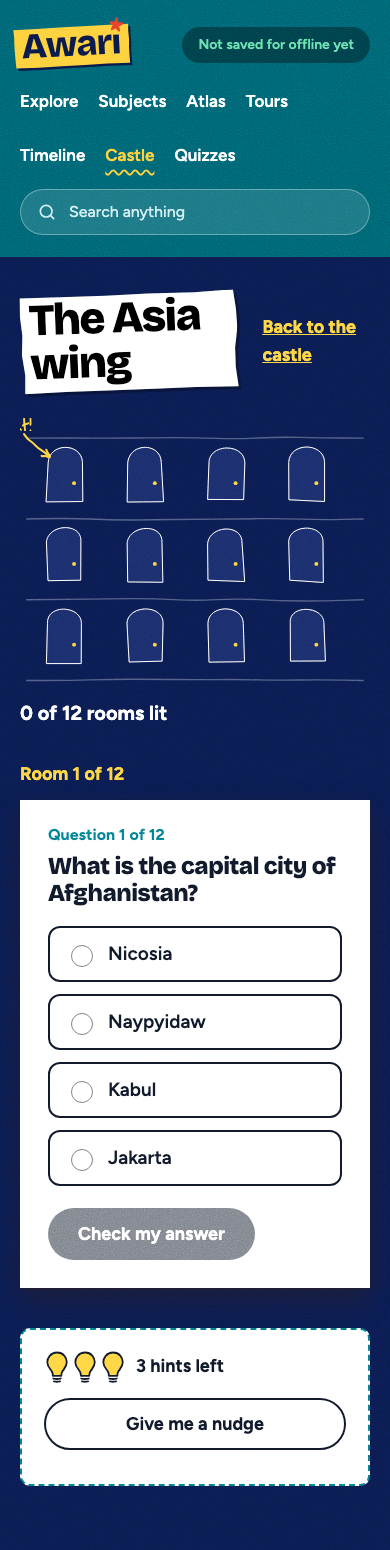
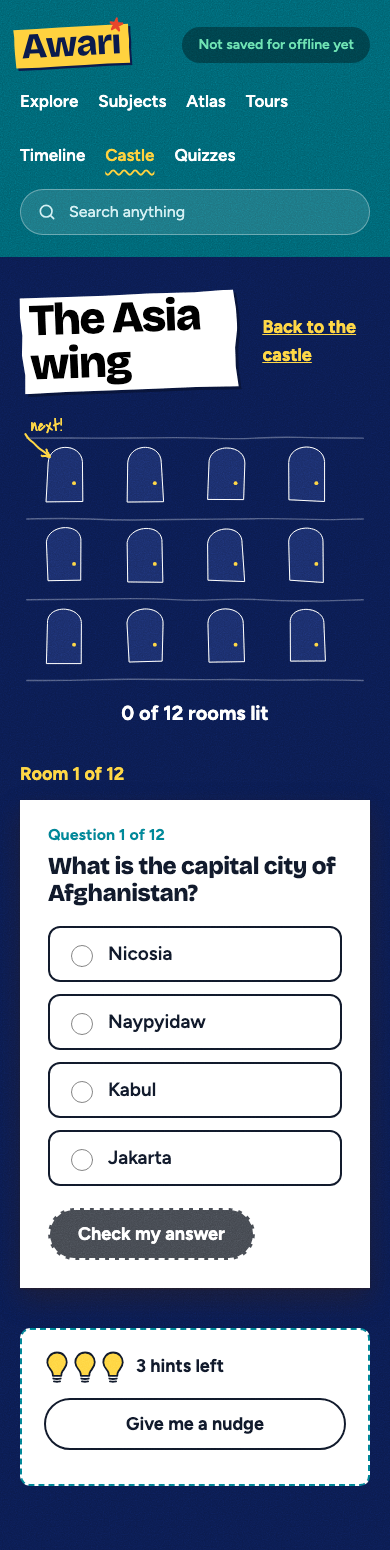
22-review-3 11: castle wing prints, full-width doors, centred wing wall

Changed region(s): [[0.1231, 0.7742, 0.6462, 0.8361], [0.0615, 0.4335, 0.6769, 0.4645], [0.0615, 0.2477, 0.1538, 0.2787]]

diff --git a/src/features/castle/castle.ts b/src/features/castle/castle.ts
@@ -1,4 +1,6 @@
 /** Pure rules for the Castle (06-castle). */
+import { coverFor } from '../../lib/packs/covers.ts';
+import { packUrl } from '../../lib/packs/load.ts';
 import { CONTINENTS, SUBJECTS, continentSlug, type Continent } from '../../lib/packs/subjects.ts';
 import type { PackId, Question, QuizSet } from '../../lib/packs/types.ts';
 import { reduce, type Action, type QuizState } from '../quiz/quizMachine.ts';
@@ -43,7 +45,7 @@ const SUBJECT_BLURBS: Record<string, string> = {
 
 const SUBJECT_WINGS: readonly Wing[] = SUBJECTS.filter((s) => s.id !== 'countries').map((s) => ({
   id: subjectWingId(s.id),
-  name: `The ${s.name} wing`,
+  name: `The ${s.name.replace(/^The /, '')} wing`,
   pack: s.id,
   group: 'subject',
   blurb: SUBJECT_BLURBS[s.id] ?? 'Twelve doors, twelve questions.',
@@ -107,3 +109,22 @@ export function castleReduce(pool: readonly Question[], s: CastleState, a: Actio
   }
   return { quiz, lit };
 }
+
+/** A reviewed picture for a wing's card: the subject's cover, or a famous place on the continent (22-review-3 Req 19). */
+export function wingPrint(wing: Wing): { src: string; alt: string } | undefined {
+  if (wing.group === 'subject') {
+    const cover = coverFor(wing.pack === 'physics' ? 'physics' : wing.pack);
+    return cover ? { src: cover.file, alt: cover.alt } : undefined;
+  }
+  const place = CONTINENT_PRINTS[wing.continent ?? ''];
+  return place ? { src: packUrl(place.file), alt: place.alt } : undefined;
+}
+
+const CONTINENT_PRINTS: Readonly<Record<string, { file: string; alt: string }>> = {
+  Africa: { file: 'img/egypt.jpg', alt: 'The three great pyramids of Giza standing in the desert' },
+  Asia: { file: 'img/india.jpg', alt: 'The white marble Taj Mahal with its dome and four tall towers' },
+  Europe: { file: 'img/france.jpg', alt: 'The Eiffel Tower in Paris' },
+  'North America': { file: 'img/united-states.jpg', alt: 'The Statue of Liberty holding up her torch, seen from the front' },
+  'South America': { file: 'img/brazil.jpg', alt: 'The statue of Christ the Redeemer above the clouds in Rio de Janeiro' },
+  Oceania: { file: 'img/australia.jpg', alt: 'The Sydney Opera House seen across the harbour' },
+};

diff --git a/src/features/castle/CastleScreen.tsx b/src/features/castle/CastleScreen.tsx
@@ -1,10 +1,12 @@
 /** The castle gate: choose a wing, with each wing's doors drawn lit. */
 import { useTitle } from '../../app/useTitle.ts';
-import { Button, MarginNote, StripHeading } from '../../design/paper.tsx';
+import { Button, MarginNote, Print, StripHeading } from '../../design/paper.tsx';
 import { useProgress } from '../../lib/store/useProgress.ts';
-import { ROOMS, WINGS } from './castle.ts';
+import { ROOMS, WINGS, wingPrint } from './castle.ts';
 import { Doors } from './Doors.tsx';
 import './castle.css';
+
+const printOf = wingPrint;
 
 export default function CastleScreen() {
   useTitle('The Castle');
@@ -44,6 +46,16 @@ export default function CastleScreen() {
               const lit = progress.castle[w.id] ?? 0;
               return (
                 <section key={w.id} className="castle__wing" aria-labelledby={`wing-${w.id}`} style={{ rotate: i % 2 ? '1deg' : '-1deg' }}>
+                  {printOf(w) ? (
+                    <Print
+                      className="castle__wing-print"
+                      src={printOf(w)?.src ?? ''}
+                      alt={printOf(w)?.alt ?? ''}
+                      width={200}
+                      tilt={i % 2 ? 2 : -2}
+                      tape={[{ left: '36%', width: 80, tilt: i % 2 ? 5 : -5, tone: 'yellow' }]}
+                    />
+                  ) : null}
                   <h3 id={`wing-${w.id}`}>{w.name}</h3>
                   <p>{w.blurb}</p>
                   <Doors lit={lit} compact />

diff --git a/src/features/castle/wings.test.ts b/src/features/castle/wings.test.ts
@@ -32,3 +32,25 @@ describe('castle wings (17-castle-wings Property 1)', () => {
     expect(WINGS.find((w) => w.id === 'electricity')?.pack).toBe('physics');
   });
 });
+
+describe('wing names and prints (22-review-3 Req 19)', () => {
+  it('never doubles "The" in a wing name', async () => {
+    const { WINGS } = await import('./castle.ts');
+    for (const w of WINGS) {
+      expect(w.name, w.id).not.toMatch(/The The/i);
+      expect(w.name).toMatch(/^The .+ wing$/);
+    }
+  });
+
+  it('gives every wing a print whose picture exists', async () => {
+    const { WINGS, wingPrint } = await import('./castle.ts');
+    const { existsSync } = await import('node:fs');
+    for (const w of WINGS) {
+      const p = wingPrint(w);
+      expect(p, w.id).toBeDefined();
+      expect(p?.alt.length).toBeGreaterThan(5);
+      const file = (p?.src ?? '').replace(/^\/packs\//, 'packs/').replace(/^\//, '');
+      expect(existsSync(`public/${file.startsWith('packs/') ? file : file}`), p?.src).toBe(true);
+    }
+  });
+});

diff --git a/src/features/castle/Doors.tsx b/src/features/castle/Doors.tsx
@@ -47,10 +47,11 @@ export function Doors({ lit, names = [], compact = false }: { lit: number; names
         )}
         {next && !compact ? (
           <g className="doors__next">
-            {wobblyArrow({ x: next.x - 34, y: next.y - 26 }, { x: next.x + 4, y: next.y + 8 }, seedFrom('next')).map((p) => (
+            {wobblyArrow({ x: Math.max(8, next.x - 34), y: next.y - 26 }, { x: next.x + 4, y: next.y + 8 }, seedFrom('next')).map((p) => (
               <path key={p} d={p} />
             ))}
-            <text x={next.x - 70} y={next.y - 30}>next!</text>
+            {/* The label sits beside the arrow's tail and always inside the wall. */}
+            <text x={Math.max(8, next.x - 34) + 8} y={next.y - 30}>next!</text>
           </g>
         ) : null}
       </svg>

diff --git a/src/features/castle/castle.css b/src/features/castle/castle.css
@@ -233,3 +233,37 @@
   margin: 0 0 16px;
   max-width: 560px;
 }
+
+/* Wing cards: a print each, and the doors fill the card (22-review-3 Req 19). */
+.castle__wing {
+  display: flex;
+  flex-direction: column;
+}
+
+.castle__wing-print {
+  align-self: center;
+  max-width: 100%;
+  margin-bottom: 18px;
+}
+
+.castle__wing .doors--compact {
+  max-width: none;
+  width: 100%;
+}
+
+.castle__wing .btn {
+  align-self: flex-start;
+  margin-top: auto;
+}
+
+/* The wing page: the door wall is centred and large, with its arrow and label. */
+.wing__wall {
+  display: flex;
+  flex-direction: column;
+  align-items: center;
+}
+
+.wing__wall .doors {
+  width: 100%;
+  max-width: 760px;
+}

diff --git a/docs/kiro-log.md b/docs/kiro-log.md
@@ -151,3 +151,4 @@ running the command itself.
 | 2026-11-13 14:50 | vitest run (365 pass), tsc, eslint, credits; scripts/packs/drop-empty-sections.ts (33 articles lost a heading with no content, such as "Cities" that only introduced a missing table), scripts/packs/drop-stale-population.ts (10 country articles lost a sentence giving the country's own headcount as another number, with their notes and 2 quiz questions), rebuild-home.ts | 22-review-3 8 | One population figure per country: the facts card (Wikidata, with year). The rule is src/lib/text/population.ts and src/lib/text/sections.ts isEmptySection; splitSections applies it on build and on the device; `npm run packs` runs the population step. Test empty-sections.property.test.ts (Property 6). First attempt rewrote 105 files by re-joining sentences and was reverted; the final script touches only paragraphs with a removed sentence |
 | 2026-11-13 15:10 | vitest run (all pass), tsc, eslint; /search?q=rhodes screenshot read at 1440 | 22-review-3 9 | snippetOf and withoutCoordinates in src/features/search/search.ts: no coordinate strings, a snippet starts at a word and ends at a full stop or at a word with an ellipsis. snippet.property.test.ts (Property 4) runs on random text and on every article summary in the packs |
 | 2026-11-13 15:55 | vitest run (370 pass), tsc, eslint, credits; new scripts/check-tours-layout.ts in a real browser: 3 cards of equal height (580 px) each with one print, 0 px overflow, 0 to 20 px of blank board under the lowest content on all three tours; /tours and /tours/rivers screenshots read | 22-review-3 10 | Tour cards have a print each from the tour's first article (Nile, Great Pyramid, Fuji), equal height with the button pinned to the bottom, and the pointing-at-nothing doodle is gone. The tour board no longer inherits the Atlas board's full-screen min-height, which left the stop strip about 130 px low. The outline around the globe is the same hand-drawn globe line as on the Atlas and was judged centred in the screenshot |
+| 2026-11-13 16:20 | vitest run (372 pass), tsc, eslint; /castle and /castle/asia screenshots at 1440 and 390 (0 px overflow) read | 22-review-3 11 | Every castle wing card has a print (subject cover, or a famous place on the continent from the pack), the doors fill the card, and the button sits at the bottom. The wing page centres a larger door wall; the "next!" label is no longer clipped by the wall. Wing names no longer read "The The human body wing". wings.test.ts covers names and print files |

diff --git a/.kiro/specs/22-review-3/tasks.md b/.kiro/specs/22-review-3/tasks.md
@@ -18,7 +18,7 @@ One task per item. Each is built by `awari-builder`, checked by `awari-design-re
       sections in the build (Property 6). _Req 11, 12_
 - [x] 9. Search snippets (Property 4). _Req 13_
 - [x] 10. Tours: equal cards, a print each, globe outline centred, no blank gap. _Req 17, 18_
-- [ ] 11. Castle wings: a print per wing, doors fill the card, the Asia page. _Req 19_
+- [x] 11. Castle wings: a print per wing, doors fill the card, the Asia page. _Req 19_
 - [ ] 12. Quiz card detail and disabled-button contrast; wildlife single-subject prints;
       Nigeria lead photo. _Req 20-22_
 - [ ] 13. Generated numbers regenerated by `submission-check`; the gate fails on a stale README or
